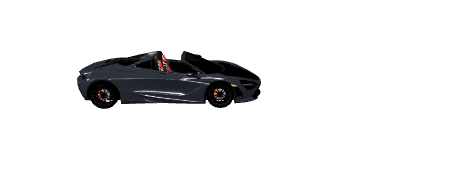
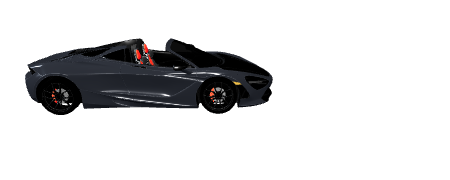
fix: tune every vehicle preview preset

Changed region(s): [[0.0311, 0.1944, 0.6222, 0.6389]]

diff --git a/src/components/Garage/vehicleCardPreview3d.ts b/src/components/Garage/vehicleCardPreview3d.ts
@@ -70,7 +70,6 @@ function previewRotation(path: string): number {
   const filename = path.toLowerCase()
   if (
     filename.includes('btwin_triban') ||
-    filename.includes('vino.glb') ||
     filename.includes('ducati_streetfighter')
   ) return Math.PI * 0.18
   return Math.PI * 0.68
@@ -81,9 +80,11 @@ function normalizeModel(model: THREE.Object3D, path: string, rotation: number) {
   const size = box.getSize(new THREE.Vector3())
   const maxAxis = Math.max(size.x, size.y, size.z)
   const filename = path.toLowerCase()
-  const targetSize = filename.includes('mini_car') || filename.includes('mustang') || filename.includes('mclaren')
-    ? 3.25
-    : 3.7
+  const targetSize = filename.includes('mustang') || filename.includes('mclaren')
+    ? 4.2
+    : filename.includes('mini_car')
+      ? 3.4
+      : 3.7
   if (maxAxis > 0) model.scale.multiplyScalar(targetSize / maxAxis)
 
   box.setFromObject(model)
